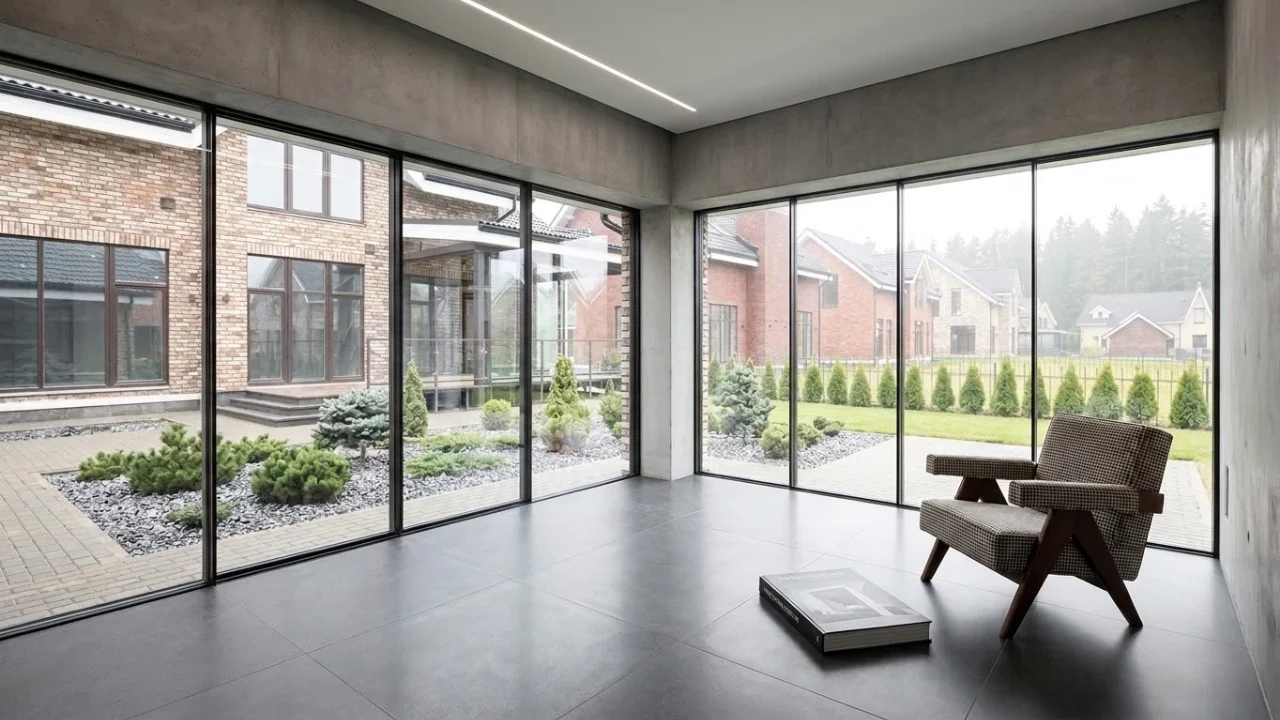
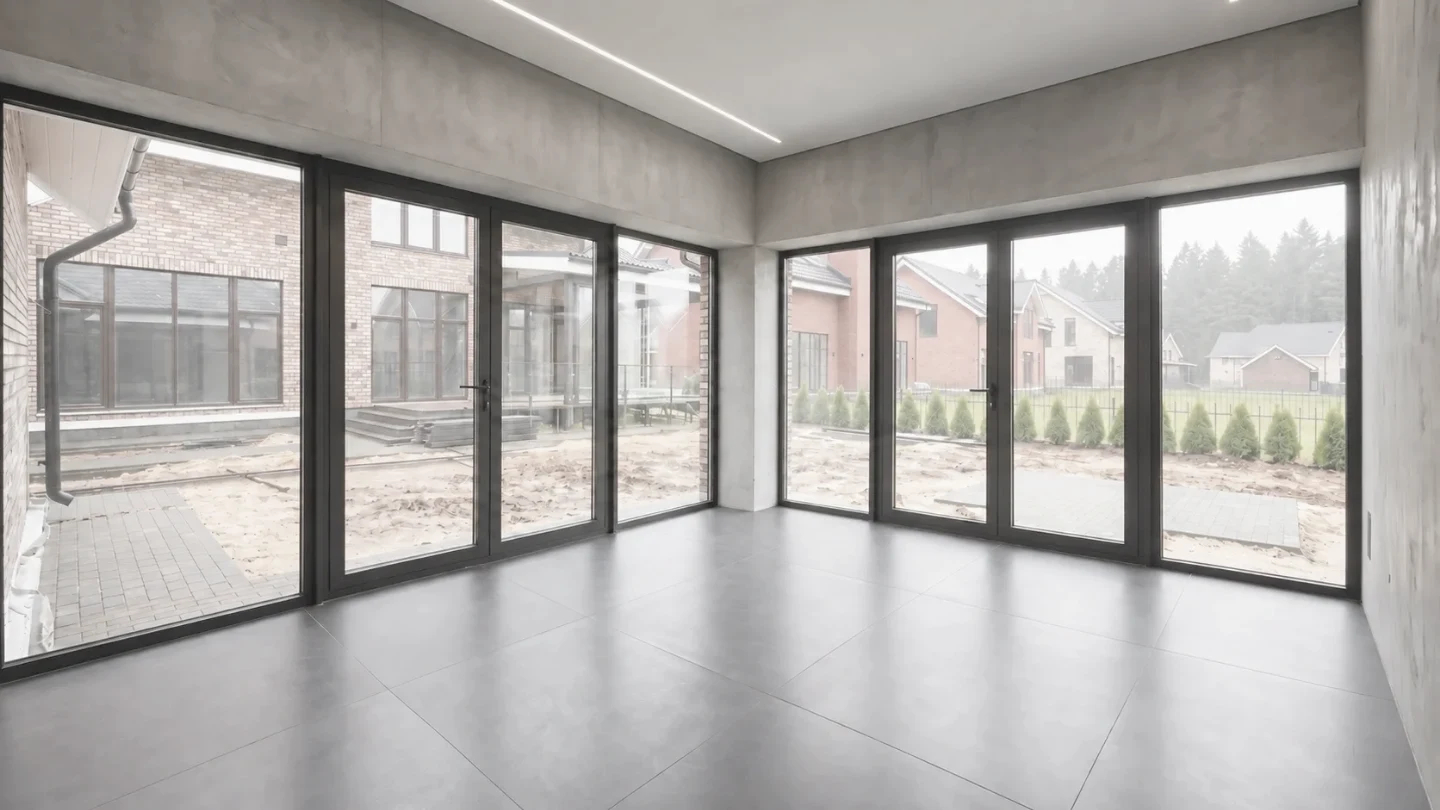
До / после: новая пара фото, обработка в духе vitrocsa
Claude-Session: https://claude.ai/code/session_01Gn8VhCyfsZCGjGBhD9Jp6s

diff --git a/index.html b/index.html
@@ -187,8 +187,8 @@
 <section class="ba-section" aria-label="До и после остекления">
   <div class="ui-wrap">
     <div class="ba" data-ba>
-      <img class="ba__img" src="assets/images/before-after/after.webp" width="1280" height="720" alt="После: угловое панорамное остекление в пол, вид на сад" loading="lazy" decoding="async">
-      <div class="ba__before"><img class="ba__img" src="assets/images/before-after/before.webp" width="1280" height="720" alt="До: тот же угол дома во время отделки, системы остекления уже смонтированы" loading="lazy" decoding="async"></div>
+      <img class="ba__img" src="assets/images/before-after/after.webp" width="1440" height="810" alt="После: отделка завершена, угловое остекление в пол с дверями в сад" loading="lazy" decoding="async">
+      <div class="ba__before"><img class="ba__img" src="assets/images/before-after/before.webp" width="1440" height="810" alt="До: тот же угол дома во время стройки, системы остекления уже смонтированы" loading="lazy" decoding="async"></div>
       <div class="ba__line" aria-hidden="true"><span class="ba__knob"></span></div>
       <input class="ba__range" type="range" min="0" max="100" step="0.1" value="50" aria-label="Сравнить: до и после остекления" data-ba-range>
     </div>

diff --git a/CLAUDE.md b/CLAUDE.md
@@ -223,7 +223,7 @@ HS4 (4 секции, 2 активные / 2 глухие, рама 158) — 4,8 
 
 Главная, порядок: первый экран → «Раздвижные двери с ценой» (`#stock`, карточки `.m-card`, блок `build:home-cards`) →
 «Системы» → «Цена по размерам проёма» (чертёж) → «До / после» (`.ba`, два кадра без подписей, линия-слайдер, `assets/js/before-after.js`,
-фото — `assets/images/before-after/`) → «Как мы работаем» (`.tl`) → «Вопросы и ответы» (`.page-faq`, JSON-LD `FAQPage`) →
+фото — `assets/images/before-after/`, 1440 × 810, обработаны в духе vitrocsa: светлее, мягче, приглушённые цвета) → «Как мы работаем» (`.tl`) → «Вопросы и ответы» (`.page-faq`, JSON-LD `FAQPage`) →
 форма → проекты. «О компании»: цифры с размерными линиями (`.dims`) → «Почему мы» (`.split-list`, `#why`) → производство
 с паспортом → линия времени (`.tl`) → «С чего начать» (`.cta-rows`) → реквизиты (`#requisites`).
 Общие плоские блоки — в конце components.css: `.dims`, `.tl`, `.split-list`, `.cta-rows`; не повторять одну форму на странице дважды подряд.
